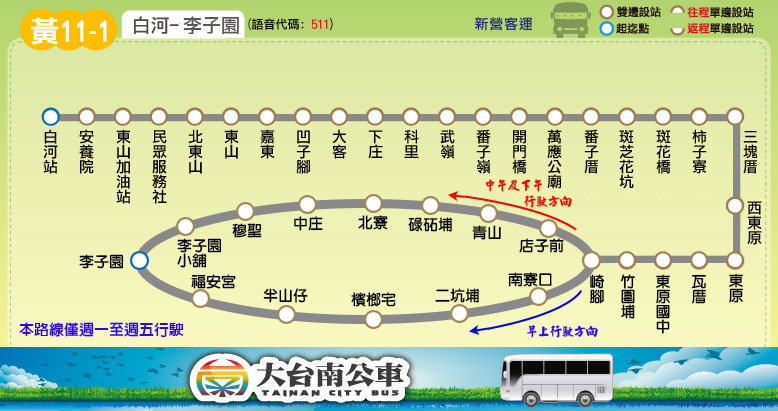
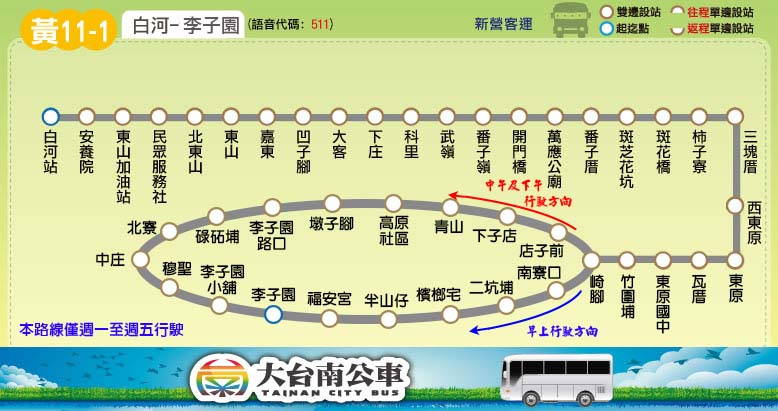
Update time schedule: brown; Add stops: y7,y11,y11-1

diff --git a/route/fare_and_time/brown.js b/route/fare_and_time/brown.js
@@ -39,11 +39,11 @@ brown_fare = [
 brown_main_stop_name = ["新營","民治<br />市政中心","統聯<br />客運","鹽水","歡雅","大埔","麻油寮","學甲","奇美<br />佳里分院","佳里"];
 brown_main_stop_time_consume = [0, 3, 8, 18, 26, 33, 33, 43, 53, 60];
 brown_important_stop = [0, 3, 7, 9]; // 新營, 鹽水, 學甲, 佳里
-brown_time_go = [["06:05",[6]],["06:15",0,3],["06:35",[5]],["07:05",[6]],["07:35",[6]],["08:05",[5]],["08:35",[6]],["09:05",[6]],["09:35",[6]],
+brown_time_go = [["06:05",[6]],["06:10",0,3],["06:35",[5]],["07:05",[6]],["07:35",[6]],["08:05",[5]],["08:35",[6]],["09:05",[6]],["09:35",[6]],
 ["10:05",[5]],["10:35",[6]],["11:05",[6]],["11:35",[6]],["12:05",[6]],["12:35",[5]],["13:05",[6]],["14:05",[6]],["14:35",[5]],
 ["15:05",[6]],["15:35",[6]],["16:05",[6]],["16:35",[6]],["17:05",[5]],["17:10",0,3],["17:35",[6]],["18:05",[6]],["19:05",[6]],["20:05",[6]]
 ];
-brown_time_return = [["06:40",3,0],["06:05",[6]],["06:35",[5]],["07:05",[6]],["07:35",[6]],["08:05",[5]],["08:35",[6]],["09:05",[6]],["09:35",[6]],
+brown_time_return = [["06:35",3,0],["06:05",[6]],["06:35",[5]],["07:05",[6]],["07:35",[6]],["08:05",[5]],["08:35",[6]],["09:05",[6]],["09:35",[6]],
 ["10:05",[5]],["10:35",[6]],["11:05",[6]],["11:35",[5]],["12:05",[6]],["12:35",[6]],["13:05",[6]],["14:05",[5]],["14:35",[6]],
 ["15:05",[6]],["15:35",[6]],["16:05",[5]],["16:35",[6]],["17:35",3,0],["17:05",[6]],["17:35",[6]],["18:05",[5]],["19:05",[6]],["20:05",[6]]
 ];

diff --git a/route/fare_and_time/yellow_11_1.js b/route/fare_and_time/yellow_11_1.js
@@ -9,7 +9,7 @@ yellow_11_1_interval_stop = [
 ["柿子寮","三塊厝","西東原","東原"], // 東原
 ["瓦厝","東原國中"], // 瓦厝
 ["竹圍埔","崎腳"], // 崎腳
-["店子前","青山","碌砳埔"], // 青山
+["店子前","下子店","青山","高原社區","墩子腳","李子園路口","碌砳埔"], // 青山
 ["北寮","中庄"], // 北寮
 ["穆聖","李子園小舖","李子園","福安宮","半山仔"], // 李子園
 ["檳榔宅"], // 檳榔宅

diff --git a/route/fare_and_time/yellow_7.js b/route/fare_and_time/yellow_7.js
@@ -13,7 +13,7 @@ yellow_7_interval_stop = [ // checked interval at Apr.15
 ["三塊厝","西東原","東原"], // 東原
 ["瓦厝","東原國中","竹圍埔"], // 瓦厝
 ["崎腳"], // 崎腳
-["店子前","青山"] // 青山
+["店子前","下子店","青山"] // 青山
 ];
 yellow_7_stop_time_consume = [0,1,2,3,4,8,12,13,14,15,18,19,21,24,25,27,28,30,31,31,32,32,33,34,37,37,38,38,39,40,41,43,45,46,47,47,48,49,50];
 yellow_7_fare = [

diff --git a/route/fare_and_time/yellow_11.js b/route/fare_and_time/yellow_11.js
@@ -9,7 +9,7 @@ yellow_11_interval_stop = [
 ["三塊厝","西東原","東原"], // 東原
 ["瓦厝","東原國中","竹圍埔"], // 瓦厝
 ["崎腳"], // 崎腳
-["店子前","青山"] // 青山
+["店子前","下子店","青山"] // 青山
 ];
 yellow_11_stop_time_consume = [0,1,2,3,4,5,7,8,8,9,9,10,11,14,14,15,15,16,17,18,20,22,23,24,24,25,26,27];
 yellow_11_fare = [
